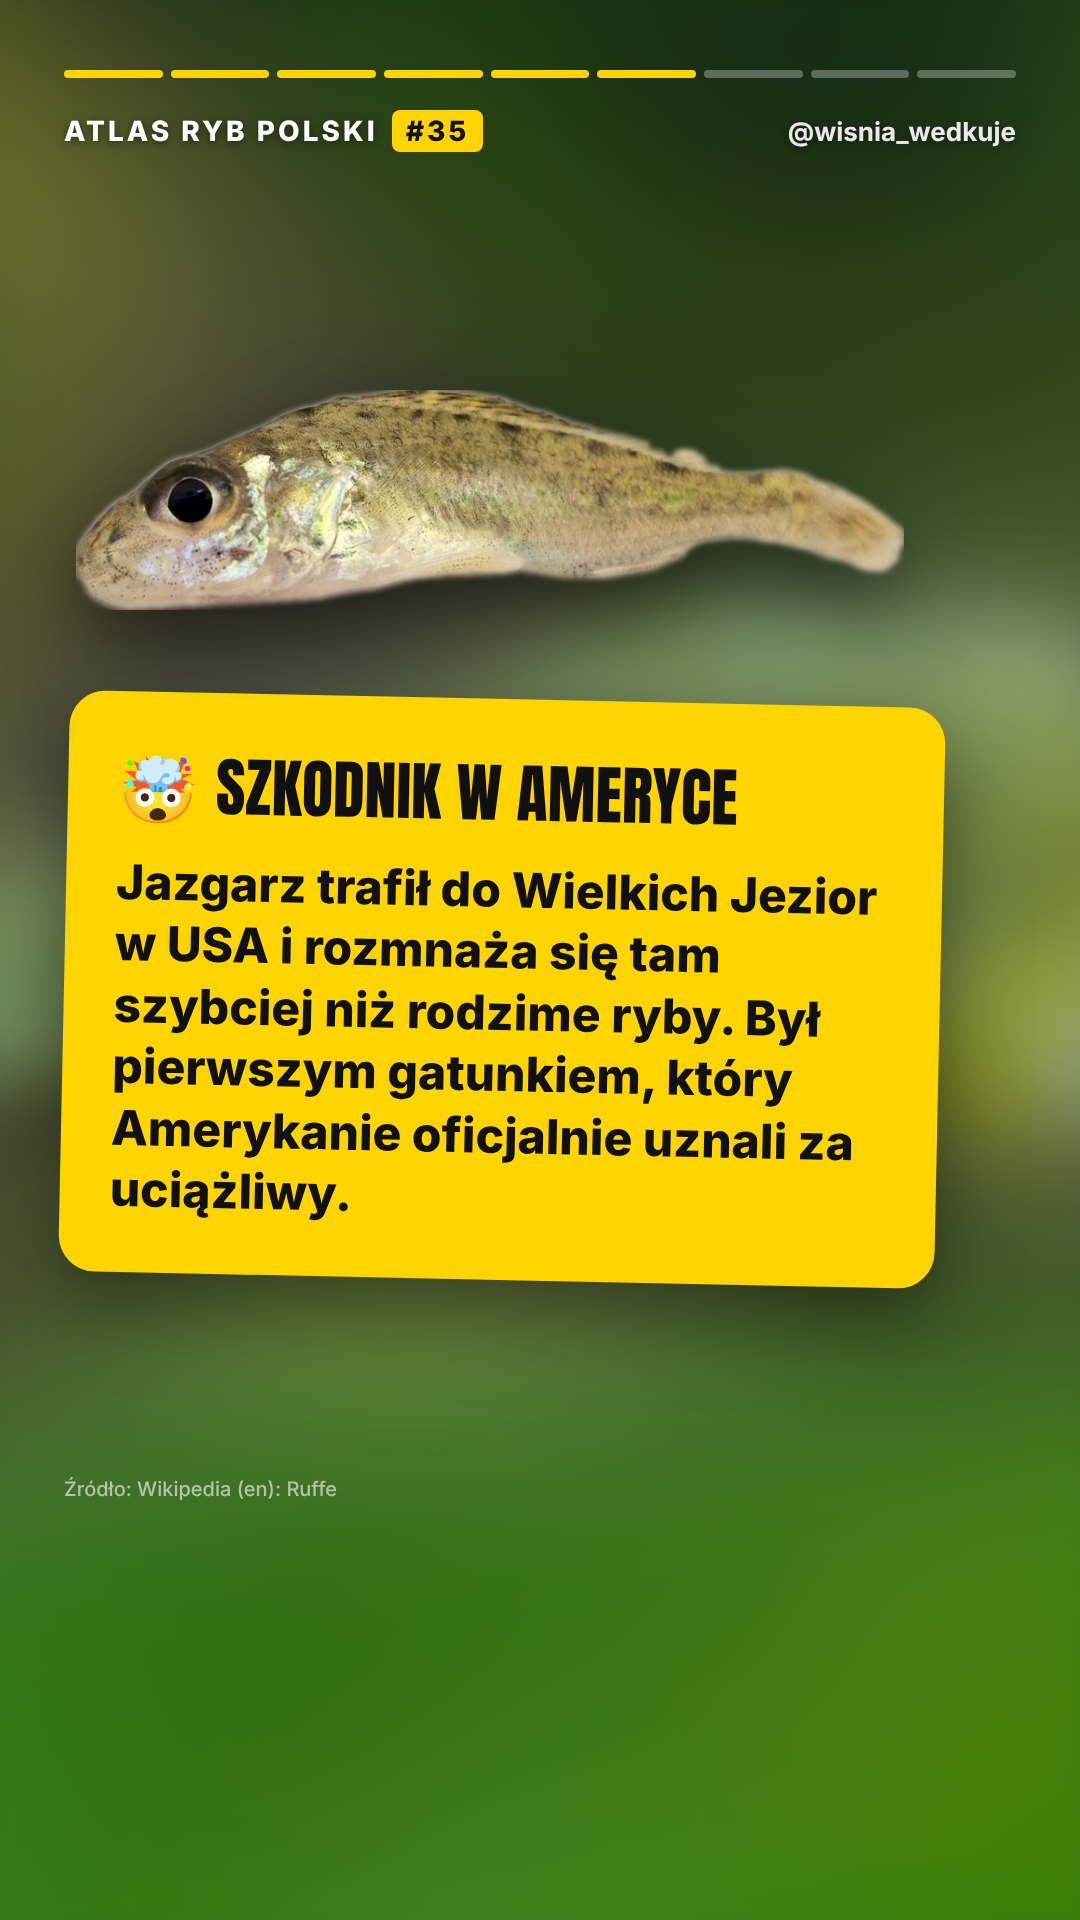
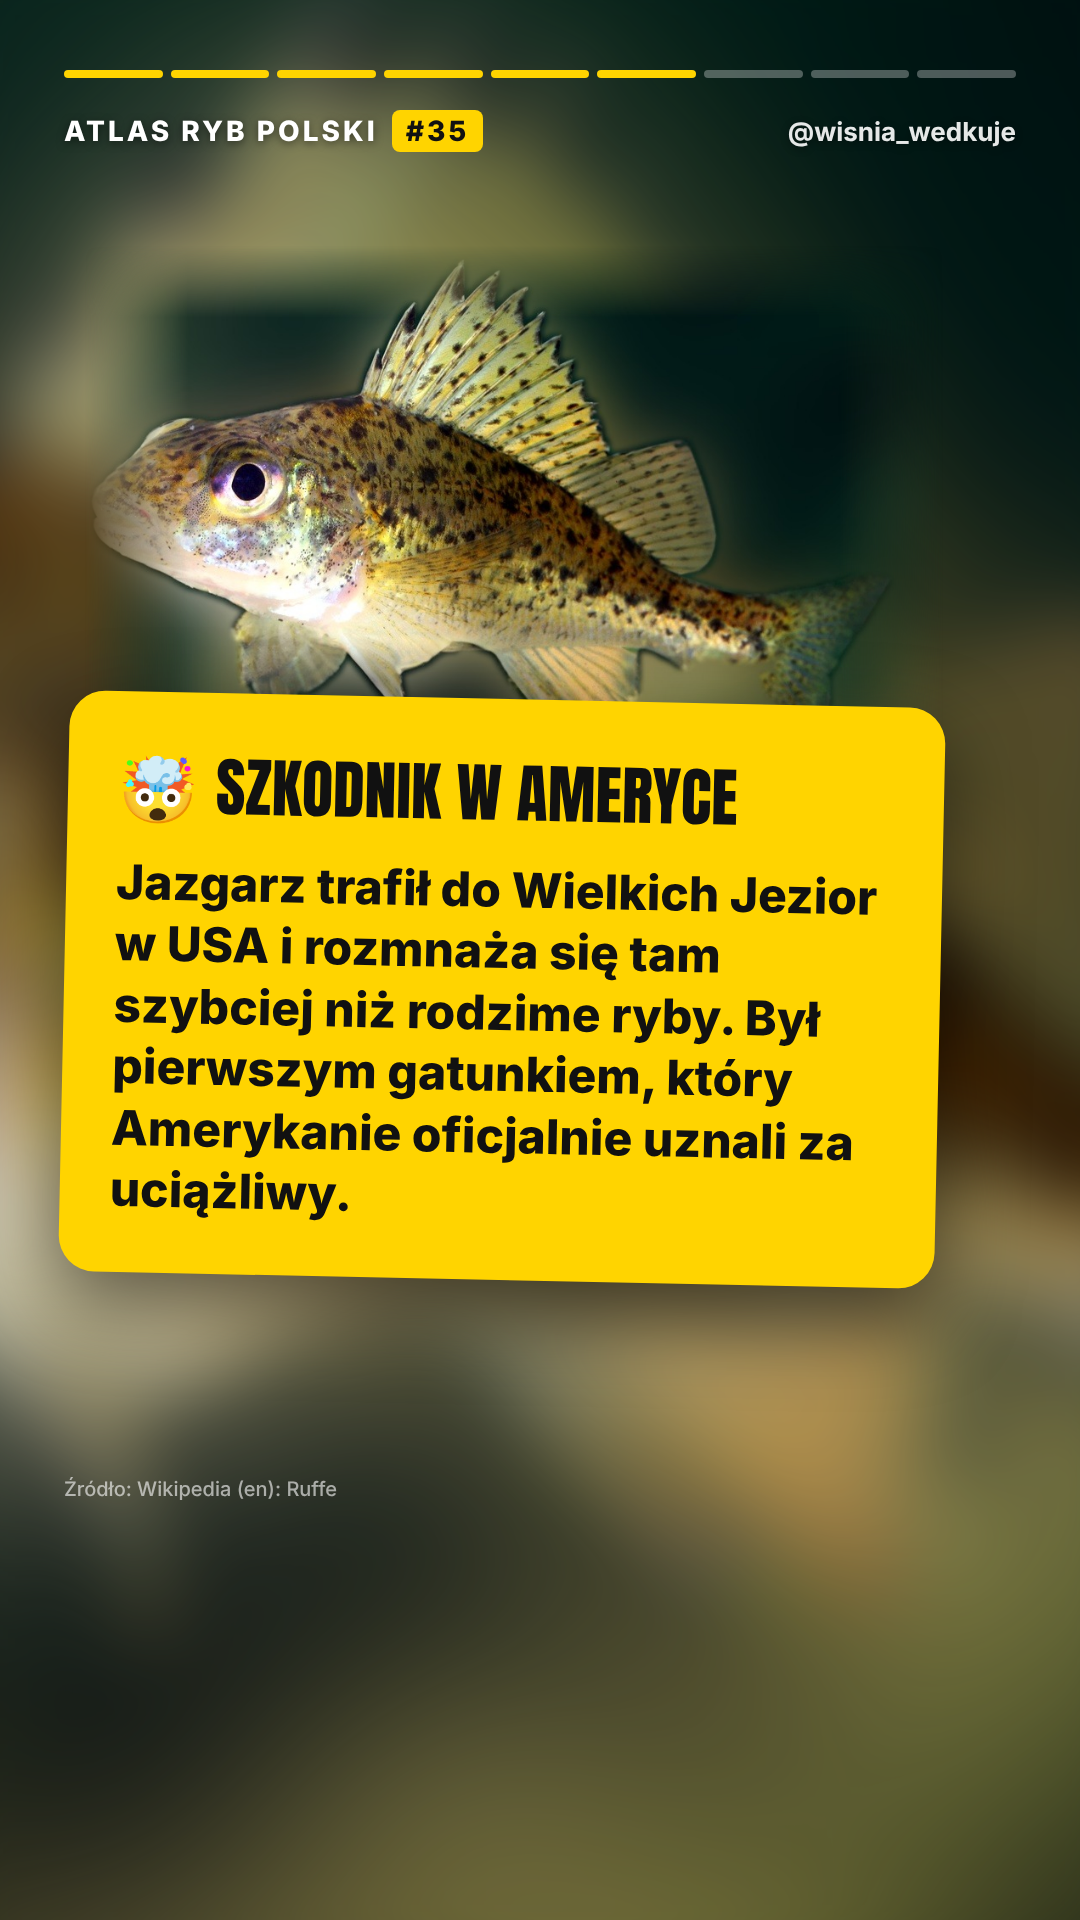
Atlas 35 Jazgarz: zdjęcie użytkownika na ciekawostce
Claude-Session: https://claude.ai/code/session_01YFDAx1LD8sTfHqEDUSbp2L

diff --git a/atlas/scenariusze/jazgarz.md b/atlas/scenariusze/jazgarz.md
@@ -21,6 +21,6 @@ pierwszy gatunek sklasyfikowany jako „nuisance” przez Non-indigenous Aquatic
 - EN: samica 130–200 tys. jaj (populacje w USA) vs PL 1–6 tys. – sprzeczne; w rolce dane polskie.
 
 ## Zdjęcia (żywe ryby, iNaturalist)
-jaz_mech (Karim Haddad, CC BY), jaz_akwarium (Nick T., CC BY-SA), jaz_biale (Xavier Japiot, CC BY – świeżo złowiony, jasne tło; zamiast ryby w pojemniku i półprzezroczystej ryby na piasku, której nie dało się czysto wyciąć),
+jaz_mech (Karim Haddad, CC BY), jaz_akwarium (Nick T., CC BY-SA), jaz_user (zdjęcie nadesłane przez użytkownika – żywy jazgarz wśród roślin; źródło i licencja do uzupełnienia),
 jaz_snieg (Edmundas Greimas, CC BY – świeżo złowiony na śniegu, najlepiej widać płetwę grzbietową).
 Odrzucone: ryby w dłoniach, martwe na liściach/piasku, zdjęcie pod wodą z uciętym ogonem.
